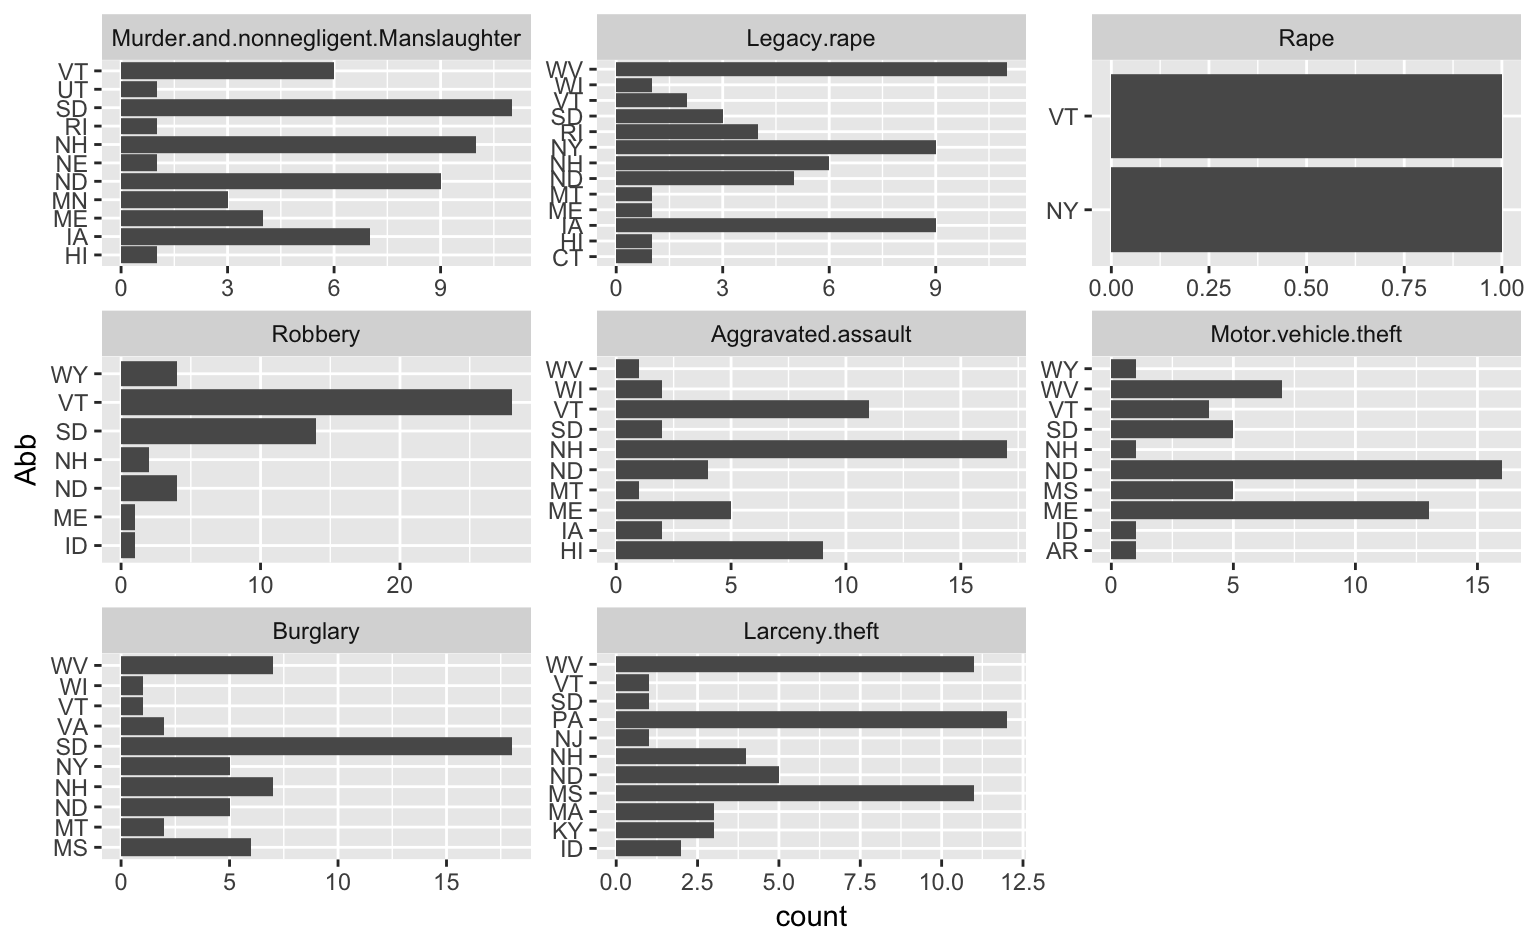
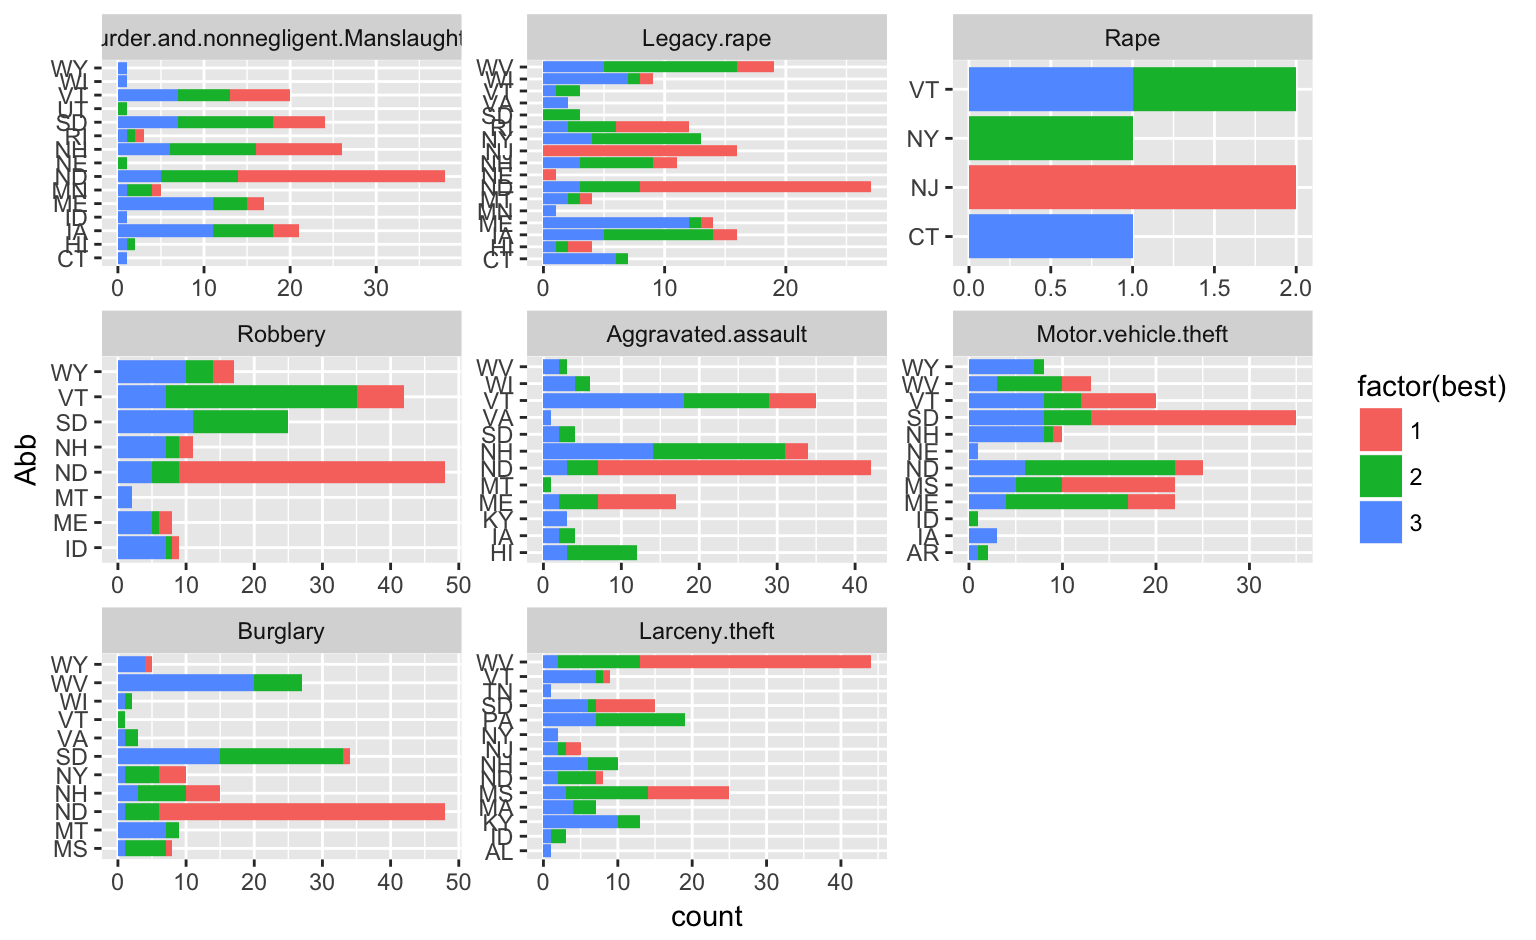
typos

diff --git a/03_tidyverse/03_dplyr-examples.html b/03_tidyverse/03_dplyr-examples.html
@@ -129,10 +129,10 @@ fbi %&gt;%<span class="st"> </span><span class="kw">filter</span>(best ==<span c
 ## 6 Burglary                             Mississippi    1963 130    
 ## 7 Larceny.theft                        West Virginia  1961 205    
 ## 8 Motor.vehicle.theft                  Vermont        2014  27.3</code></pre>
-</section><section id="your-turn-group_by-and-summarise" class="slide level2 white">
-<h2>Your turn: group_by and summarise</h2>
+</section><section id="your-turn-group_by-and-mutate" class="slide level2 white">
+<h2>Your turn: group_by and mutate</h2>
 <p><img class="cover" src="images/blue.jpeg" alt="" width=2000></p>
-<p><span style="color:white">For this your turn use the <code>happy</code> data from the <code>classdata</code> package </span></p>
+<p><span style="color:white">For this your turn use the <code>fbi</code> data from the <code>classdata</code> package </span></p>
 <ul>
 <li><span style="color:white">Find the ranks for all rates of crime by type of crime and year.</span></li>
 <li><span style="color:white">Focus on the top states. Find a visual that shows how often each state managed to take the top spot since 1961.</span><br><br><br><br><br><br><br><br></li>
@@ -140,9 +140,9 @@ fbi %&gt;%<span class="st"> </span><span class="kw">filter</span>(best ==<span c
 <div class="sourceCode"><pre class="sourceCode r"><code class="sourceCode r">fbi &lt;-<span class="st"> </span>fbi %&gt;%<span class="st"> </span><span class="kw">group_by</span>(Type, Year) %&gt;%<span class="st"> </span><span class="kw">mutate</span>(
   <span class="dt">best =</span> <span class="kw">rank</span>(Rate, <span class="dt">na.last=</span> <span class="st">&quot;keep&quot;</span>) <span class="co"># ranks from lowest rate to highest rate</span>
 )
-fbi %&gt;%<span class="st"> </span><span class="kw">filter</span>(best ==<span class="st"> </span><span class="dv">2</span>) %&gt;%<span class="st"> </span>
+fbi %&gt;%<span class="st"> </span><span class="kw">filter</span>(best &lt;=<span class="st"> </span><span class="dv">3</span>) %&gt;%<span class="st"> </span>
 <span class="st">  </span><span class="kw">ggplot</span>(<span class="kw">aes</span>(<span class="dt">x =</span> Abb)) +
-<span class="st">  </span><span class="kw">geom_bar</span>() +<span class="st"> </span><span class="kw">facet_wrap</span>(~Type, <span class="dt">scales=</span><span class="st">&quot;free&quot;</span>) +<span class="st"> </span><span class="kw">coord_flip</span>()</code></pre></div>
+<span class="st">  </span><span class="kw">geom_bar</span>(<span class="kw">aes</span>(<span class="dt">fill=</span><span class="kw">factor</span>(best))) +<span class="st"> </span><span class="kw">facet_wrap</span>(~Type, <span class="dt">scales=</span><span class="st">&quot;free&quot;</span>) +<span class="st"> </span><span class="kw">coord_flip</span>()</code></pre></div>
 <p><img src="03_dplyr-examples_files/figure-revealjs/unnamed-chunk-5-1.png" width="768" /></p>
 </section>
 
